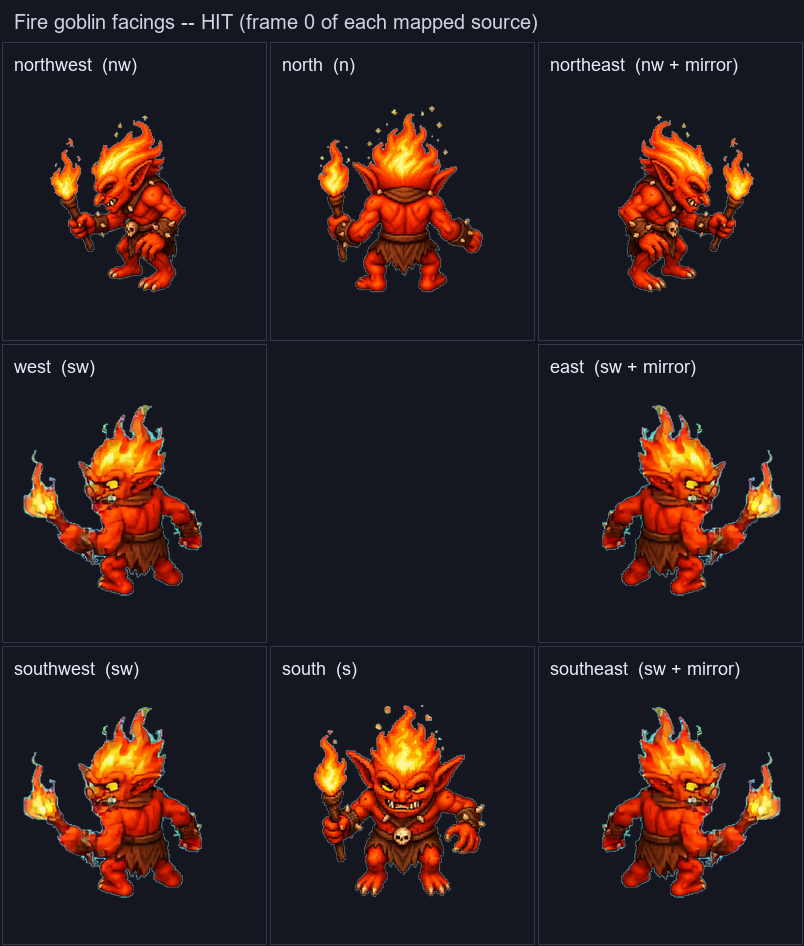
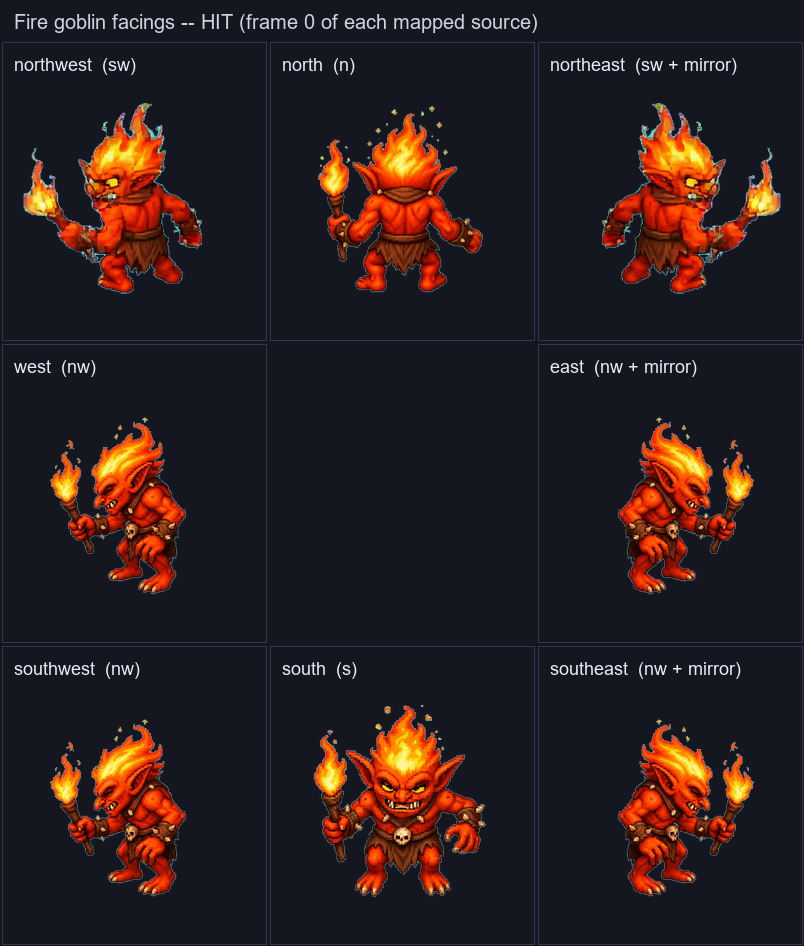
fireGoblin HIT + ATTACK direction remap (v2.3.6)
User review of v2.3.5 facing previews flagged mislabeled sources
in both maps:

HIT_MAP -- 3-way swap on the west side:
  NW slot uses hit-sw.png (was hit-nw)
  W  slot uses hit-nw.png (was hit-sw)
  SW slot uses hit-nw.png (was hit-sw)
East-side mirrors follow: NE = sw mirror, E/SE = nw mirror.

ATTACK_MAP -- cyclical shift on the west side:
  NW slot uses attack-w.png  (was attack-nw)
  W  slot uses attack-sw.png (was attack-w)
  SW slot uses attack-nw.png (was attack-sw)
East-side mirrors follow: NE = w mirror, E = sw mirror, SE = nw mirror.

preview_fire_goblin_facings.py mirrors the new maps so the regenerated
PNGs in tools/ match what the renderer actually draws.

Build verified.

diff --git a/src/rendering/fireGoblinSprites.js b/src/rendering/fireGoblinSprites.js
@@ -62,32 +62,37 @@ const WALK_MAP = {
   southeast: { src: 'e',  mirror: true  },
 };
 
-/* ATTACK: 5 source directions (N / NW / W / SW / S).  East-side
-   facings are produced by mirroring their west-side counterparts —
-   attack motion flips cleanly so this looks natural. */
+/* ATTACK: 5 source files, but labels are shifted one position
+   relative to actual direction (per user v2.3.6 review).  Cyclical
+   reassignment on the west side:
+     NW slot uses attack-w (the file misnamed 'w')
+     W  slot uses attack-sw (the file misnamed 'sw')
+     SW slot uses attack-nw (the file misnamed 'nw')
+   East-side facings are produced by mirroring. */
 const ATTACK_MAP = {
   south:     { src: 's',  mirror: false },
-  southwest: { src: 'sw', mirror: false },
-  west:      { src: 'w',  mirror: false },
-  northwest: { src: 'nw', mirror: false },
+  southwest: { src: 'nw', mirror: false },
+  west:      { src: 'sw', mirror: false },
+  northwest: { src: 'w',  mirror: false },
   north:     { src: 'n',  mirror: false },
-  northeast: { src: 'nw', mirror: true  },
-  east:      { src: 'w',  mirror: true  },
-  southeast: { src: 'sw', mirror: true  },
+  northeast: { src: 'w',  mirror: true  },
+  east:      { src: 'sw', mirror: true  },
+  southeast: { src: 'nw', mirror: true  },
 };
 
-/* HIT: 4 source directions (N / NW / SW / S).  Per user note the SW
-   source is mostly side-on, so it doubles for both SW and W (and
-   mirrors for E and SE).  NW mirrors to NE. */
+/* HIT: 4 source files but labels are off (per user v2.3.6 review):
+   hit-nw.png and hit-sw.png are swapped relative to the directions
+   they cover.  NW now uses the 'sw' file; W and SW share the 'nw'
+   file.  East-side facings are produced by mirroring. */
 const HIT_MAP = {
   south:     { src: 's',  mirror: false },
-  southwest: { src: 'sw', mirror: false },
-  west:      { src: 'sw', mirror: false },
-  northwest: { src: 'nw', mirror: false },
+  southwest: { src: 'nw', mirror: false },
+  west:      { src: 'nw', mirror: false },
+  northwest: { src: 'sw', mirror: false },
   north:     { src: 'n',  mirror: false },
-  northeast: { src: 'nw', mirror: true  },
-  east:      { src: 'sw', mirror: true  },
-  southeast: { src: 'sw', mirror: true  },
+  northeast: { src: 'sw', mirror: true  },
+  east:      { src: 'nw', mirror: true  },
+  southeast: { src: 'nw', mirror: true  },
 };
 
 const walkSheets = {};   // dir -> { frames: Texture[] }

diff --git a/tools/preview_fire_goblin_facings.py b/tools/preview_fire_goblin_facings.py
@@ -28,23 +28,23 @@ WALK_MAP = {
 }
 HIT_MAP = {
     'south':     ('s',  False),
-    'southwest': ('sw', False),
-    'west':      ('sw', False),
-    'northwest': ('nw', False),
+    'southwest': ('nw', False),
+    'west':      ('nw', False),
+    'northwest': ('sw', False),
     'north':     ('n',  False),
-    'northeast': ('nw', True),
-    'east':      ('sw', True),
-    'southeast': ('sw', True),
+    'northeast': ('sw', True),
+    'east':      ('nw', True),
+    'southeast': ('nw', True),
 }
 ATTACK_MAP = {
     'south':     ('s',  False),
-    'southwest': ('sw', False),
-    'west':      ('w',  False),
-    'northwest': ('nw', False),
+    'southwest': ('nw', False),
+    'west':      ('sw', False),
+    'northwest': ('w',  False),
     'north':     ('n',  False),
-    'northeast': ('nw', True),
-    'east':      ('w',  True),
-    'southeast': ('sw', True),
+    'northeast': ('w',  True),
+    'east':      ('sw', True),
+    'southeast': ('nw', True),
 }
 
 # 3x3 compass grid: (col, row) for each facing.  Center empty.